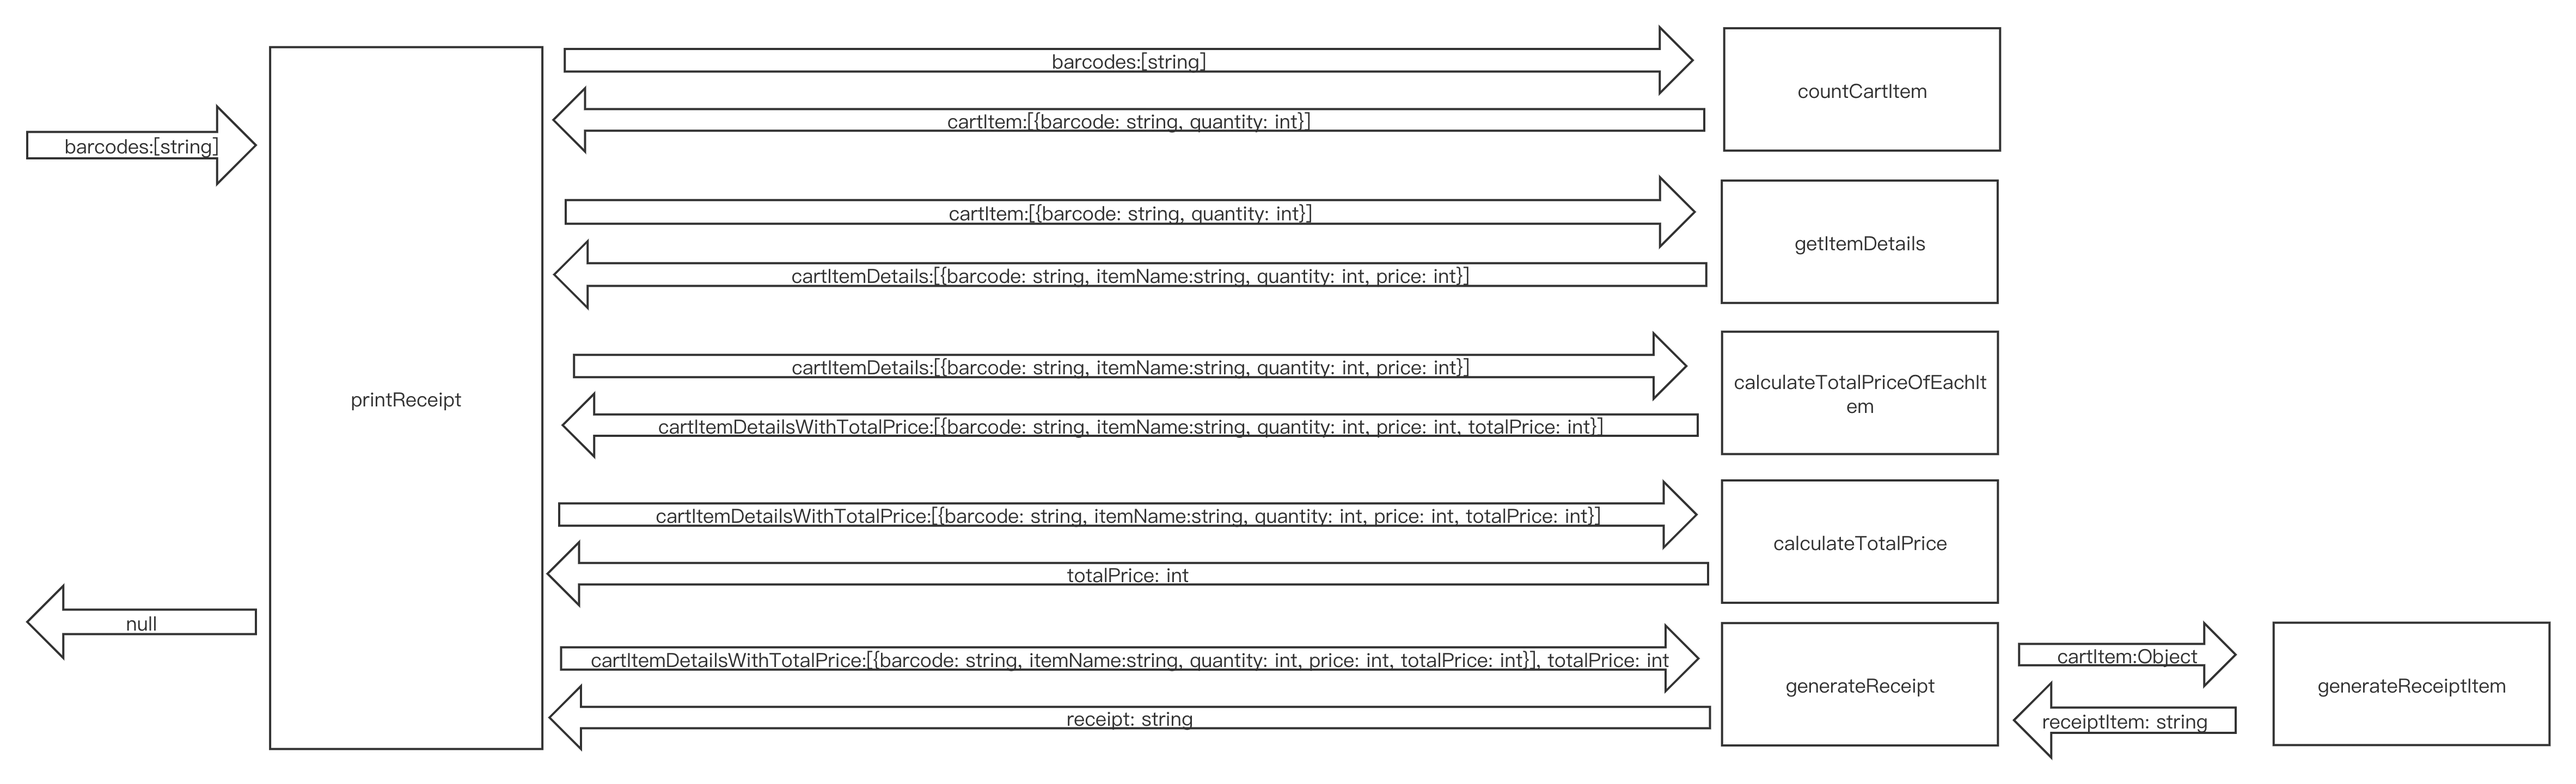
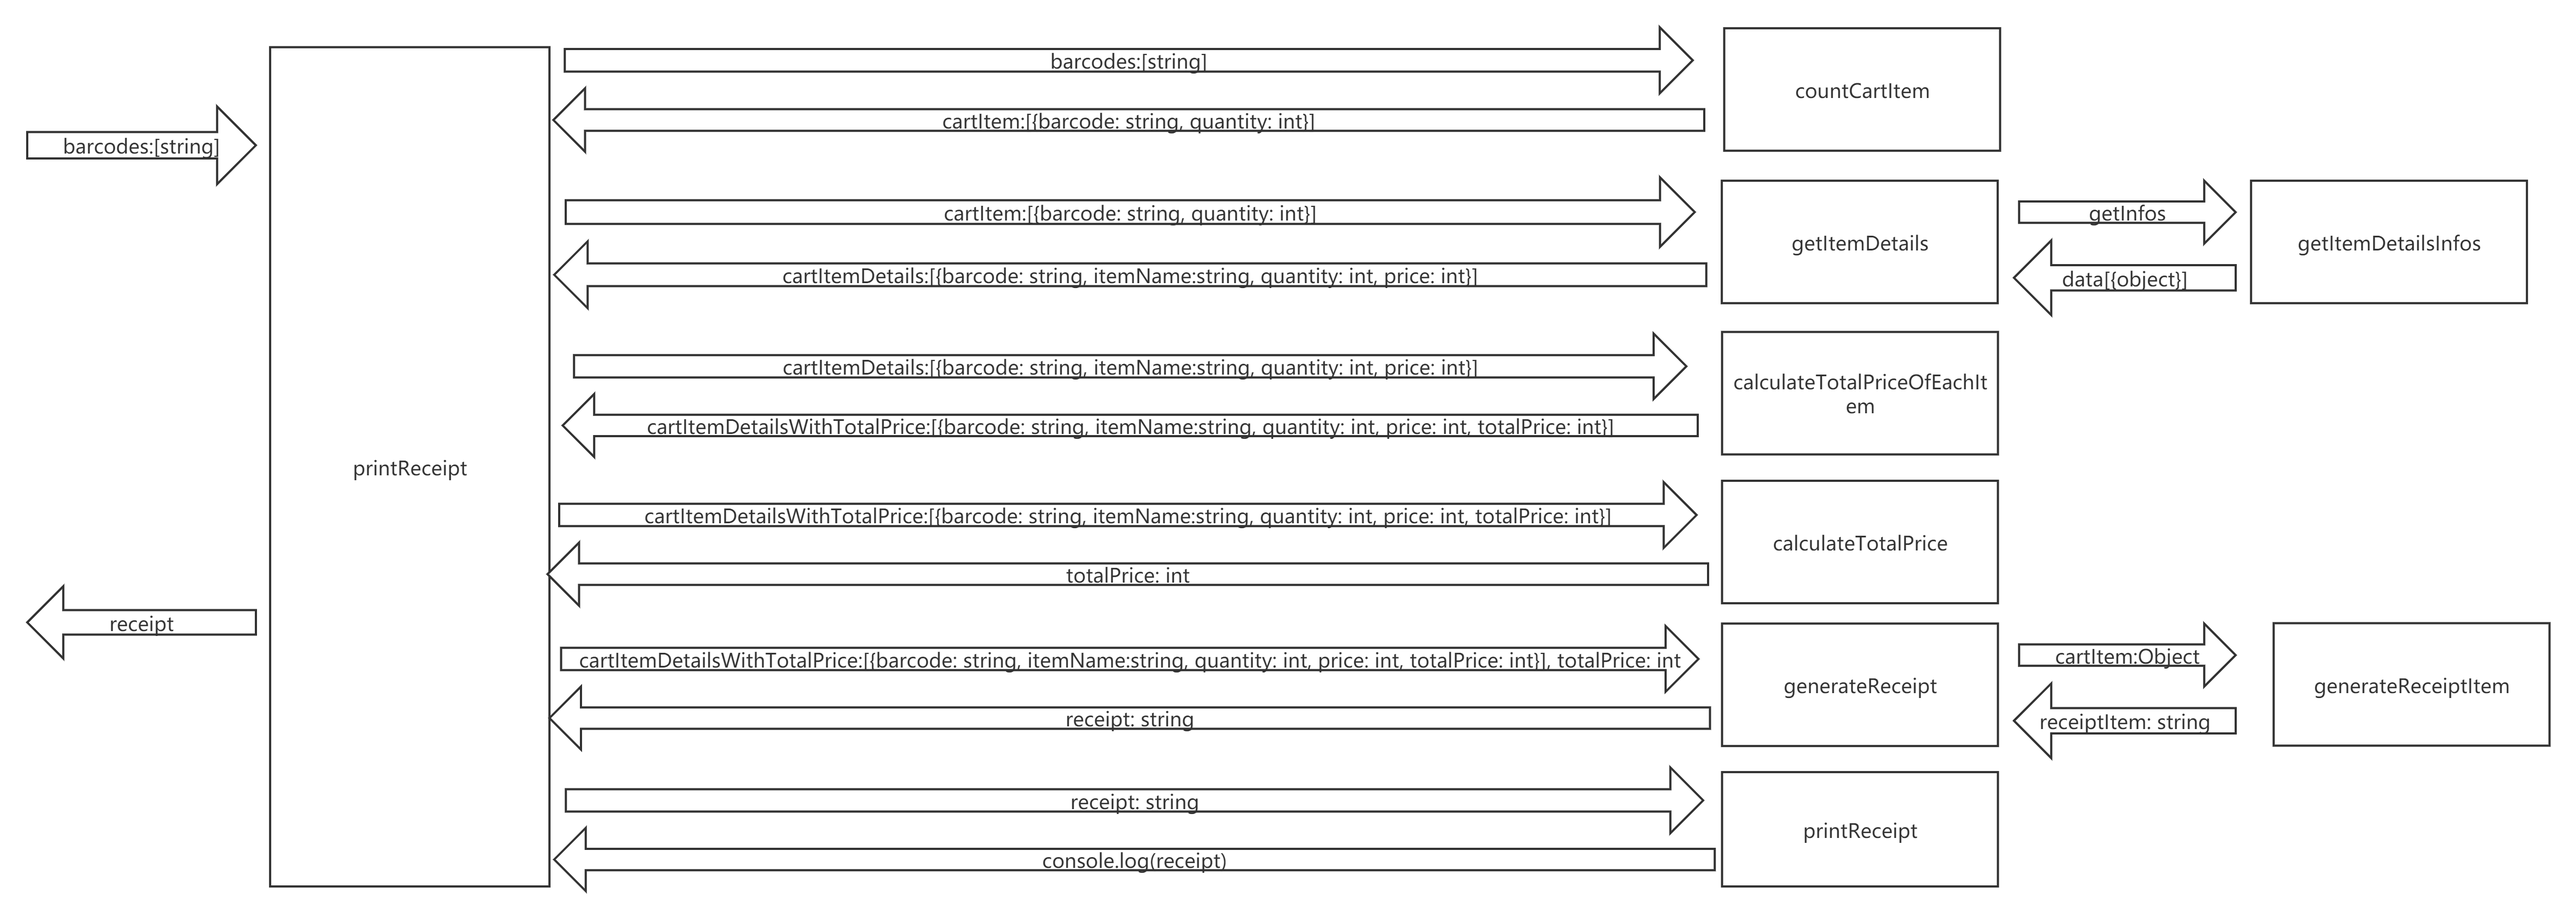
[Martin] feature: add getItemDetailsInfos task

diff --git a/main.js b/main.js
@@ -1,11 +1,10 @@
-const data = require('./data')
-
 function printReceipt(barcodes) {
     let cartItems = countCartItem(barcodes);
     let cartItemDetails = getItemDetails(cartItems);
     let cartItemDetailsWithTotalPrice = calculateTotalPriceOfEachItem(cartItemDetails);
     let totalPrice = calculateTotalPrice(cartItemDetailsWithTotalPrice);
-    console.log(generateReceipt(cartItemDetailsWithTotalPrice, totalPrice));
+    let receipt = generateReceipt(cartItemDetailsWithTotalPrice, totalPrice);
+    printReceipt(receipt);
 }
 
 function countCartItem(barcodes) {
@@ -29,6 +28,7 @@ function countCartItem(barcodes) {
 }
 
 function getItemDetails(cartItems) {
+    let data = getItemDetailsInfos();
     for (let i = 0; i < data.length; i++) {
         for (let j = 0 ;j <  cartItems.length; j++) {
             if (data[i].barcode === cartItems[j].barcode) {
@@ -38,6 +38,10 @@ function getItemDetails(cartItems) {
         }
     }
     return cartItems;
+}
+
+function getItemDetailsInfos() {
+    return require('./data')
 }
 
 function calculateTotalPriceOfEachItem(cartItemDetails) {
@@ -68,6 +72,10 @@ function generateReceipt(cartItemDetailsWithTotalPrice, totalPrice) {
 
 function generateReceiptItem(cartItem) {
     return `Name: ${cartItem.itemName}, Quantity: ${cartItem.quantity}, Unit price: ${cartItem.price} (yuan), Subtotal: ${cartItem.totalPrice} (yuan)\n`
+}
+
+function printReceipt(receipt) {
+    console.log(receipt)
 }
 
 printReceipt([
